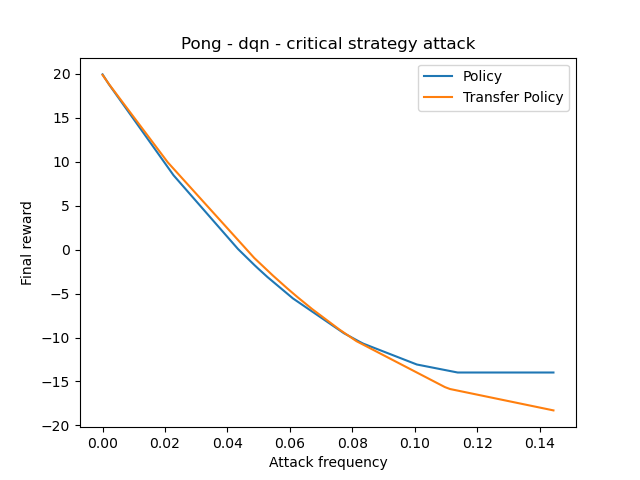
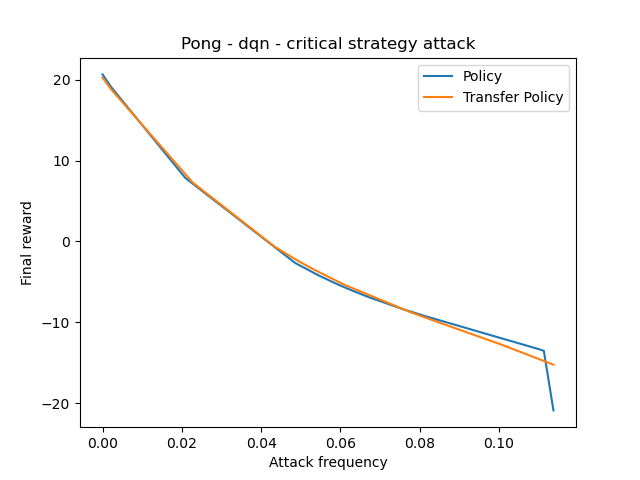
added critical point attack results for pong

diff --git a/make_chart_rew.py b/make_chart_rew.py
@@ -36,10 +36,10 @@ if __name__ == '__main__':
     model = "dqn"
     transfer_model = "dqn"
     img_attack = "fgm_eps_0.1"  # fgm_eps_0.05, perfect_attack, fgm_eps_0.3
-    rl_attack = "critical_strategy_attack"  # strategically_timed_attack, uniform_attack, critical_strategy_attack
+    rl_attack = "critical_point_attack"  # strategically_timed_attack, uniform_attack, critical_strategy_attack
     has_atk_freq = 1
     has_n_attacks = 0
-    smoothing = 2
+    smoothing = 3
     input_file = [
         "log/" + task + "NoFrameskip-v4/" + model + "/" + rl_attack + "_" + img_attack + ".npy",
         "log/" + task + "NoFrameskip-v4/" + model + "/" + rl_attack + "_" + img_attack + "_transf_" + transfer_model + ".npy",

diff --git a/drl_attacks/critical_point_attack.py b/drl_attacks/critical_point_attack.py
@@ -50,7 +50,7 @@ class critical_point_attack_collector(critical_strategy_attack_collector):
                  acts_mask: List[int] = None,
                  repeat_adv_act: int = 1,
                  atari: bool = True,
-                 full_search: bool = False,
+                 full_search: bool = True,
                  dam: Callable = None
                  ):
         super().__init__(
@@ -120,6 +120,7 @@ class critical_point_attack_collector(critical_strategy_attack_collector):
                 attack = True
                 if not self.full_search:
                     return adv_acts, attack
+        #print(std_dam, best_dam)
         return adv_acts, attack
 
 

diff --git a/drl_attacks/critical_strategy_attack.py b/drl_attacks/critical_strategy_attack.py
@@ -48,7 +48,7 @@ class critical_strategy_attack_collector(base_attack_collector):
                  acts_mask: List[int] = None,
                  repeat_adv_act: int = 1,
                  atari: bool = True,
-                 full_search: bool = False
+                 full_search: bool = True
                  ):
         super().__init__(
             policy, env, obs_adv_atk, perfect_attack, device)

diff --git a/atari_critical_point_attack_benchmark.py b/atari_critical_point_attack_benchmark.py
@@ -85,7 +85,7 @@ def benchmark_adversarial_policy(args=get_args()):
                                                 dam=dam
                                                 )
     n_range = list(np.arange(args.min, args.max)) + [args.max]
-    m_range = [0., 0.25, 0.5, 0.75, 1.]
+    m_range = [0., 1., 2., 3., 4.]
     atk_freq = []
     n_attacks = []
     rewards = []
